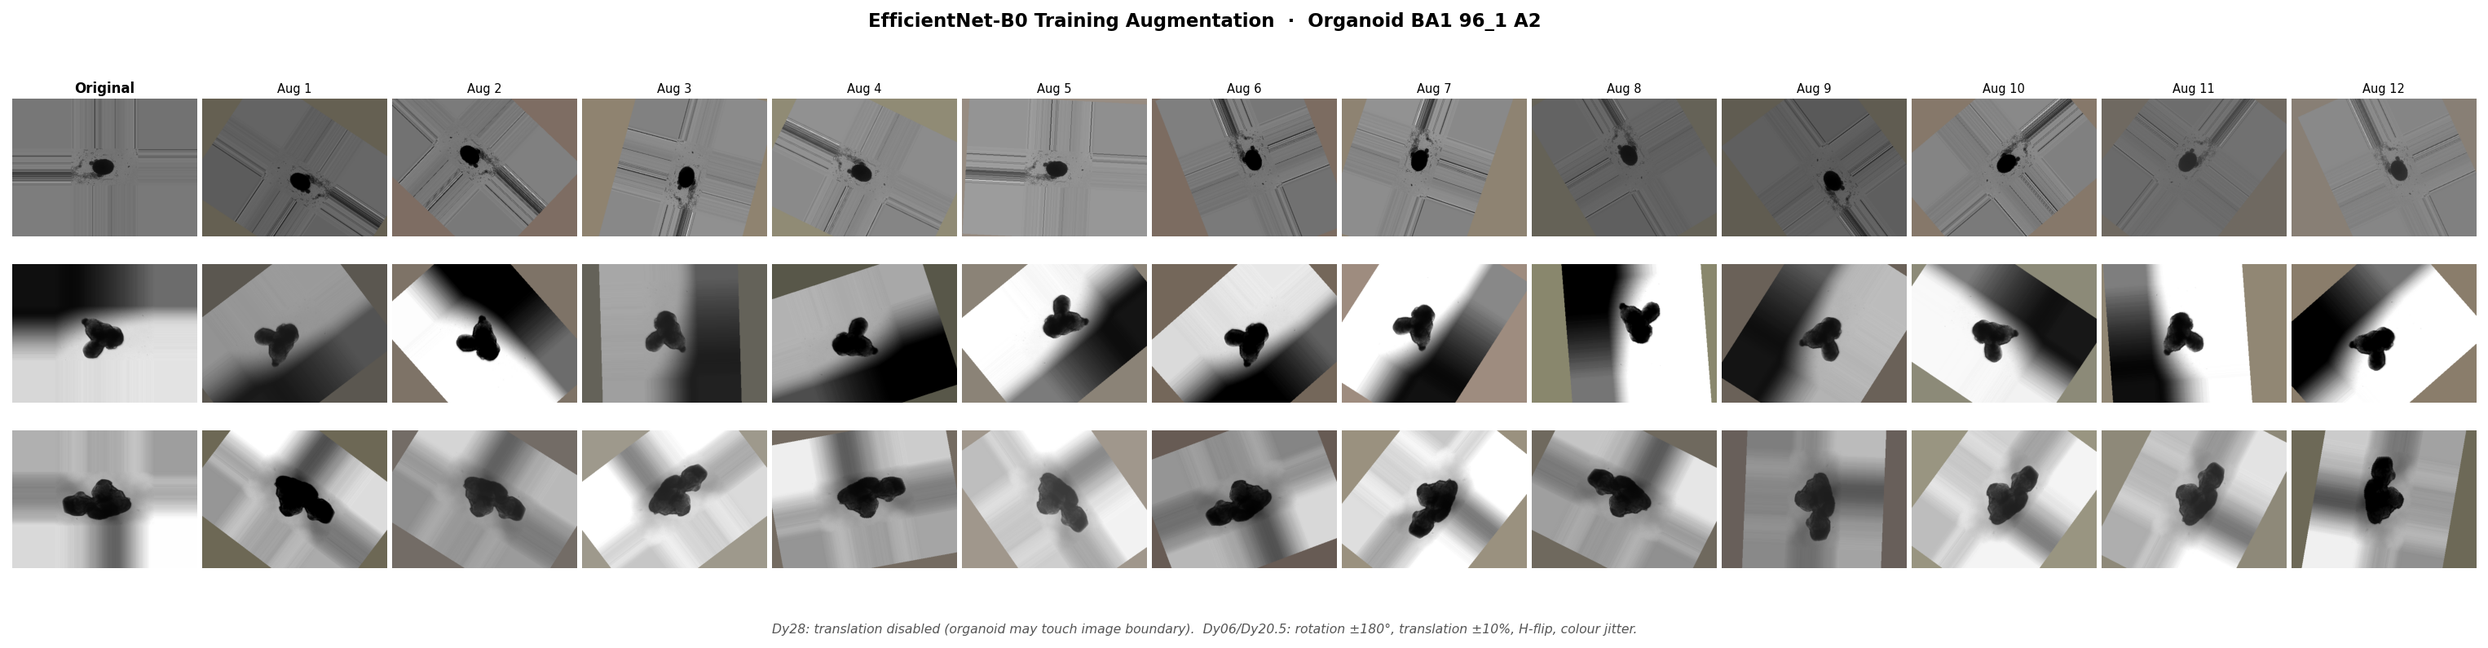
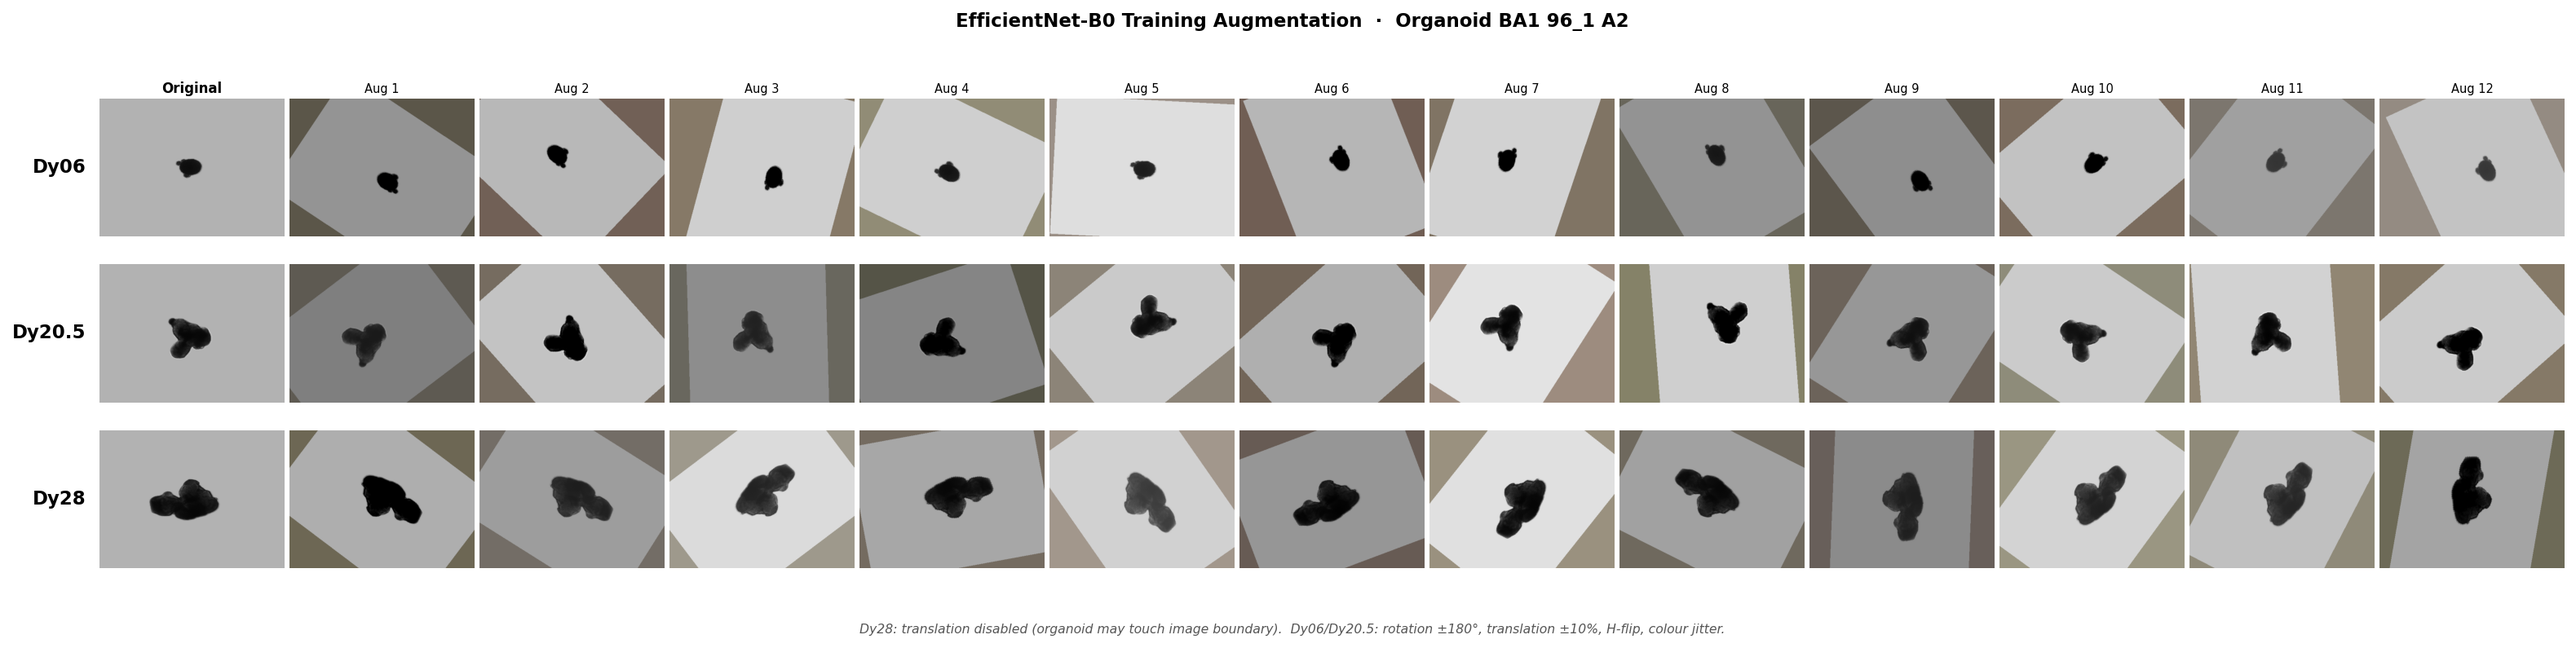
fix: switch image input to mean-filled (cm_image_abs) throughout
- pipeline/data_loader.py: add 'cm_image' mode → clipped_meanfill/cm_image_abs
  (background replaced with ImageNet-mean fill, mean_fill_clip dir)
- perday_image_kfold.py, combined_kfold.py: default INPUT_MODE cm_source_image
  → cm_image; add cm_image to argparse choices
- submit_perday_image_kfold.slurm: update default INPUT_MODE comment + variable
- augmentation_demo.py: use mean_fill_clip images; fix day labels (annotate
  instead of set_ylabel which is hidden by axis("off"))

Existing results (jobs 1370532/1370537) used cm_source_image; corrected
versions will be rerun for comparison.

diff --git a/analysis/paper_2026_04/augmentation_demo.py b/analysis/paper_2026_04/augmentation_demo.py
@@ -34,14 +34,14 @@ SEED   = 42
 
 SAMPLES = [
     ("Dy06",   "BA1 96_1 A2",
-     "/net/projects2/promega/2026_04_15_data/intermediate/resized_575_square"
-     "/BA1_96_1_Dy06_A2_nosplit_nostitch.png"),
+     "/net/projects2/promega/2026_04_15_data/intermediate/mean_fill_clip"
+     "/BA1_96_1_Dy06_A2_clipped_meanfill_auto_filled.png"),
     ("Dy20.5", "BA1 96_1 A2",
-     "/net/projects2/promega/2026_04_15_data/intermediate/resized_575_square"
-     "/BA1_96_1_Dy20_A2_nosplit_nostitch.png"),
+     "/net/projects2/promega/2026_04_15_data/intermediate/mean_fill_clip"
+     "/BA1_96_1_Dy20.5_A2_clipped_meanfill_auto_filled.png"),
     ("Dy28",   "BA1 96_1 A2",
-     "/net/projects2/promega/2026_04_15_data/intermediate/resized_575_square"
-     "/BA1_96_1_Dy28_A2_nosplit_nostitch.png"),
+     "/net/projects2/promega/2026_04_15_data/intermediate/mean_fill_clip"
+     "/BA1_96_1_Dy28_A2_clipped_meanfill_auto_filled.png"),
 ]
 
 OUT_PATH = Path("figures/augmentation_demo.png")
@@ -87,9 +87,12 @@ def main():
         if row_i == 0:
             ax.set_title("Original", fontsize=8, fontweight="bold", pad=3)
 
-        # Row label on left
-        axes[row_i, 0].set_ylabel(day_label, fontsize=10, fontweight="bold",
-                                   rotation=0, labelpad=42, va="center")
+        # Row label — annotate outside the axes since axis("off") hides ylabel
+        axes[row_i, 0].annotate(
+            day_label, xy=(0, 0.5), xycoords="axes fraction",
+            xytext=(-8, 0), textcoords="offset points",
+            fontsize=11, fontweight="bold", va="center", ha="right",
+        )
 
         # Dy28: disable translation (organoid touches boundary)
         translate = None if day_label == "Dy28" else (0.1, 0.1)

diff --git a/pipeline/data_loader.py b/pipeline/data_loader.py
@@ -98,15 +98,16 @@ DAY_ALIAS = {
 # Image-mode → image_path-key mapping. Single source of truth for translating
 # user-facing mode names to record keys.
 # Flat modes resolve directly under images.*; nested modes use tuple (parent, key).
-# cm_source_image / cm_source_mask are aspect-ratio-conserved (resized_575_square)
-# and are the correct inputs for the per-day image classifier.
-# img / overlay use resized_512x384 which is NOT aspect-ratio-conserved.
+# cm_image      — background replaced with ImageNet-mean fill (mean_fill_clip dir)
+# cm_source_*   — aspect-ratio-conserved source images (resized_575_square), NOT mean-filled
+# img / overlay — resized_512x384, NOT aspect-ratio-conserved
 IMAGE_MODE_TO_PATH_KEY = {
     "img": "img_path",
     "mask": "mask_path",
     "overlay": "overlay_path",
+    "cm_image":        ("clipped_meanfill", "cm_image_abs"),
     "cm_source_image": ("clipped_meanfill", "cm_source_image_abs"),
-    "cm_source_mask": ("clipped_meanfill", "cm_source_mask_abs"),
+    "cm_source_mask":  ("clipped_meanfill", "cm_source_mask_abs"),
 }
 
 

diff --git a/analysis/paper_2026_04/perday_image_kfold.py b/analysis/paper_2026_04/perday_image_kfold.py
@@ -364,8 +364,8 @@ def train_one_day_kfold(
 def main():
     parser = argparse.ArgumentParser()
     parser.add_argument("--days", nargs="+", default=None)
-    parser.add_argument("--input-mode", default="cm_source_image",
-                        choices=["cm_source_image", "cm_source_mask", "overlay", "img", "mask"])
+    parser.add_argument("--input-mode", default="cm_image",
+                        choices=["cm_image", "cm_source_image", "cm_source_mask", "overlay", "img", "mask"])
     parser.add_argument("--filter-mode", default="series_idor",
                         choices=["base", "series_idor"])
     parser.add_argument("--n-folds", type=int, default=N_FOLDS)

diff --git a/analysis/paper_2026_04/combined_kfold.py b/analysis/paper_2026_04/combined_kfold.py
@@ -67,7 +67,7 @@ os.environ.setdefault("CUBLAS_WORKSPACE_CONFIG", ":4096:8")
 SEED        = 1
 N_FOLDS     = 5
 FILTER_MODE = "series_idor"
-INPUT_MODE  = "cm_source_image"
+INPUT_MODE  = "cm_image"
 ALL_DATA_PATH  = "data/all_data.json"
 MORPH_CSV_PATH = "data/normalized/CONC_data_organoides_residualized_final.csv"
 OUTPUT_DIR  = Path("analysis_output") / "images"
